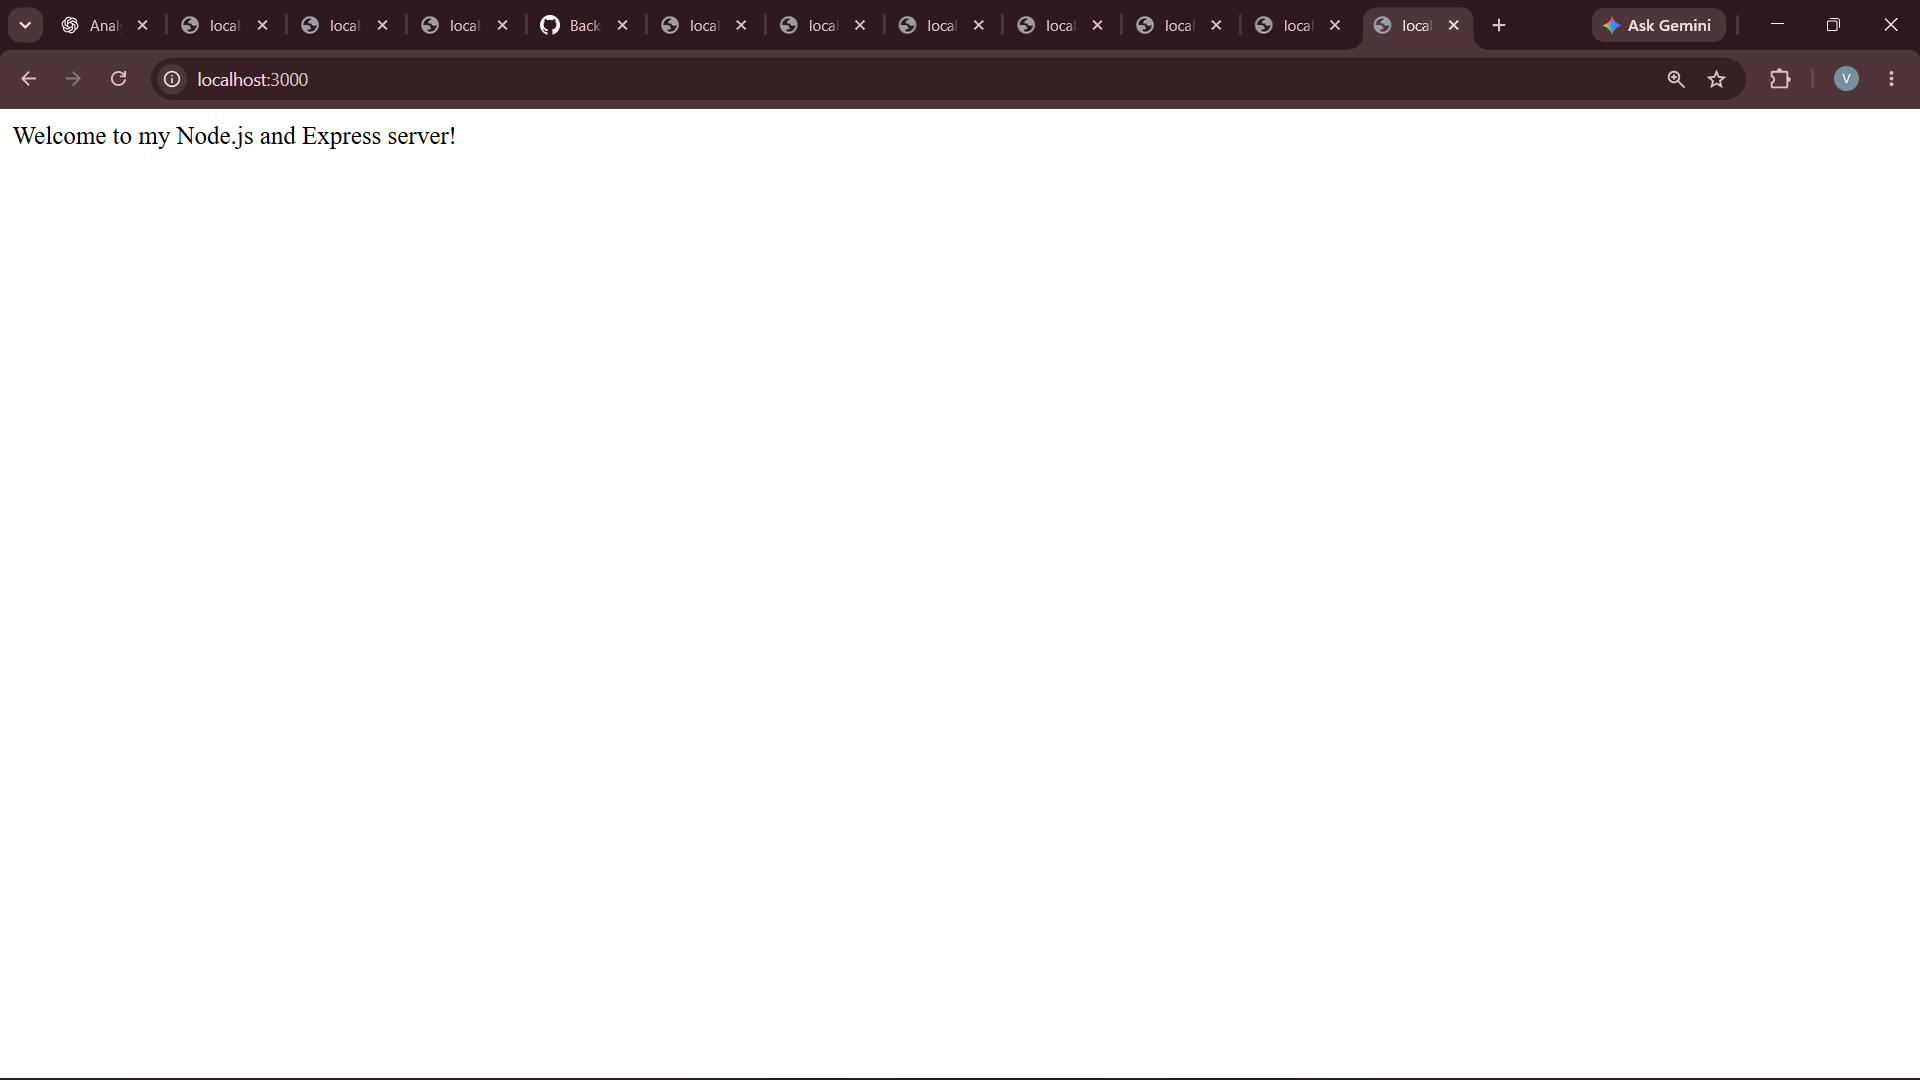
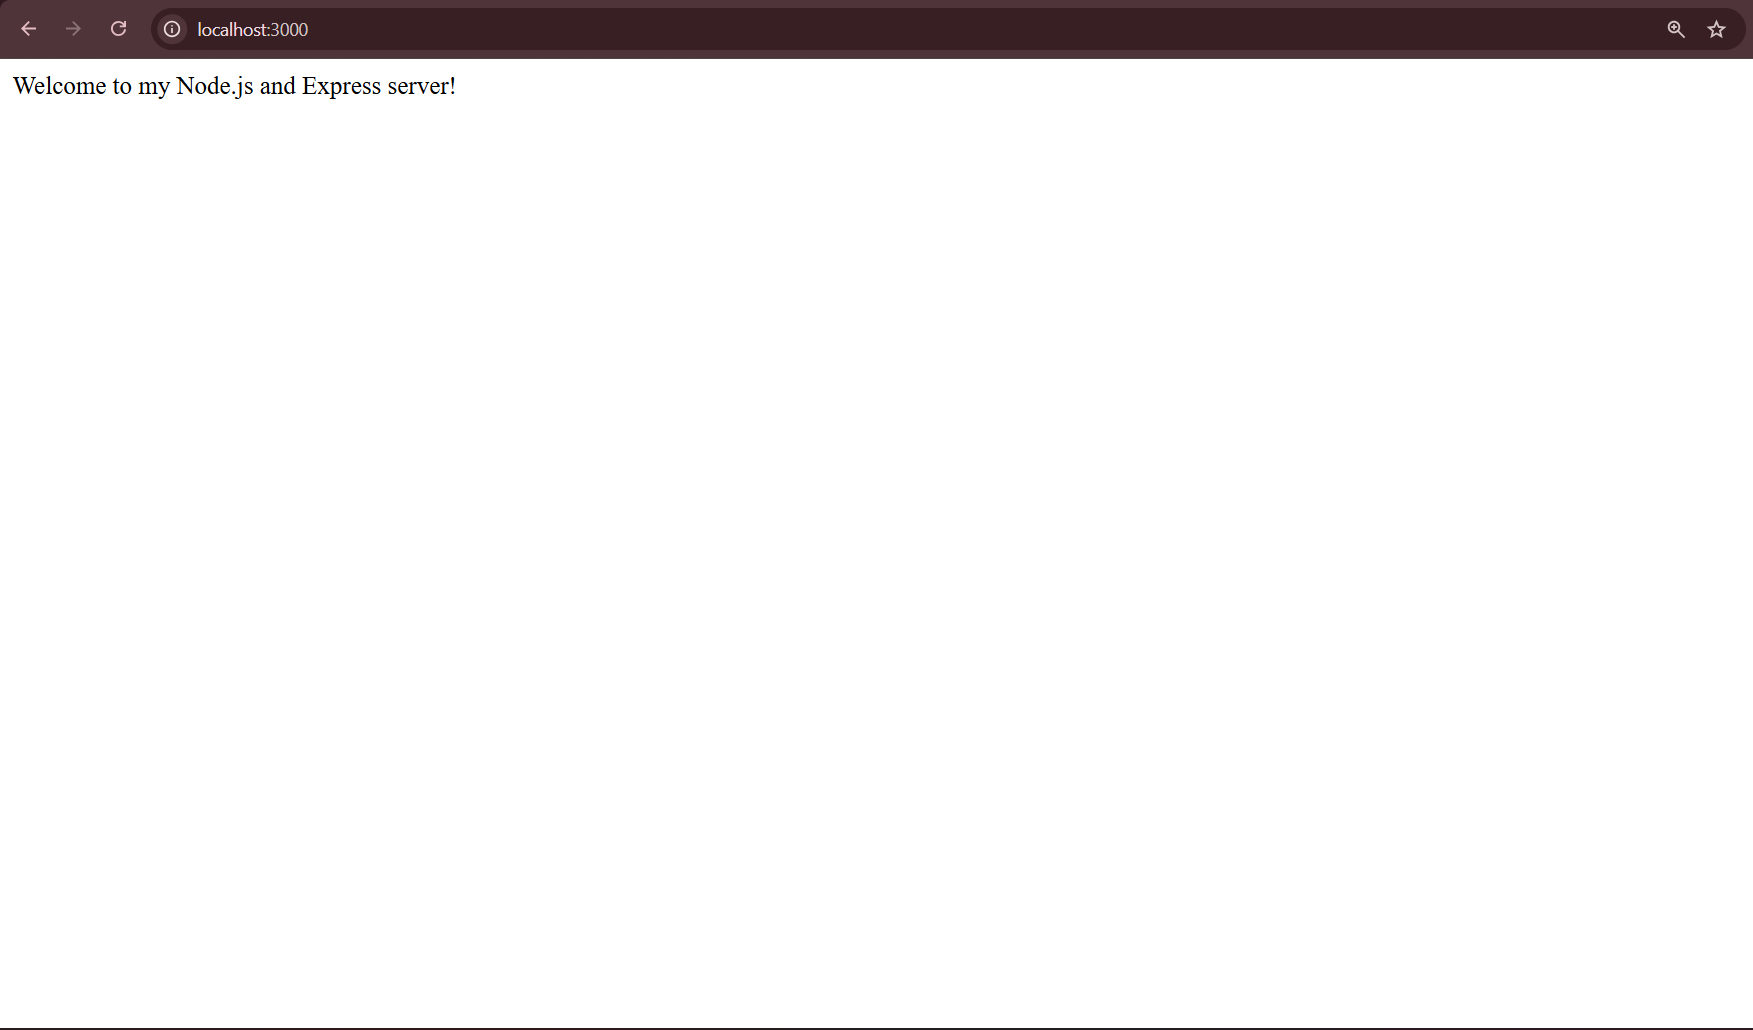
Update name from Varun Kumar to R Sai Jaswanth Reddy

Changed region(s): [[0.0, 0.0, 1.0, 0.1553], [0.0, 0.9942, 0.8317, 1.0], [0.8625, 0.9942, 1.0, 1.0]]

diff --git a/server.js b/server.js
@@ -12,7 +12,7 @@ app.get('/', (req, res) => {
 // GET /about - About route
 app.get('/about', (req, res) => {
     res.status(200).json({
-        name: 'Varun Kumar',
+        name: 'R Sai Jaswanth Reddy',
         section: 'CSE FSD 2B'
     });
 });

diff --git a/README.md b/README.md
@@ -2,7 +2,7 @@
 
 ## Student Details
 
-- **Name:** Varun Kumar
+- **Name:** R Sai Jaswanth Reddy
 - **Section:** CSE FSD 2B
 - **Course:** Backend Development Fundamentals
 - **Lab Number:** 01
